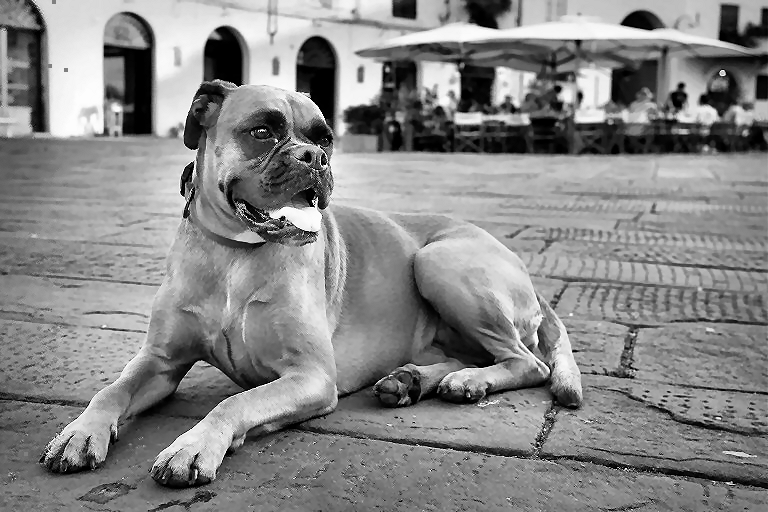
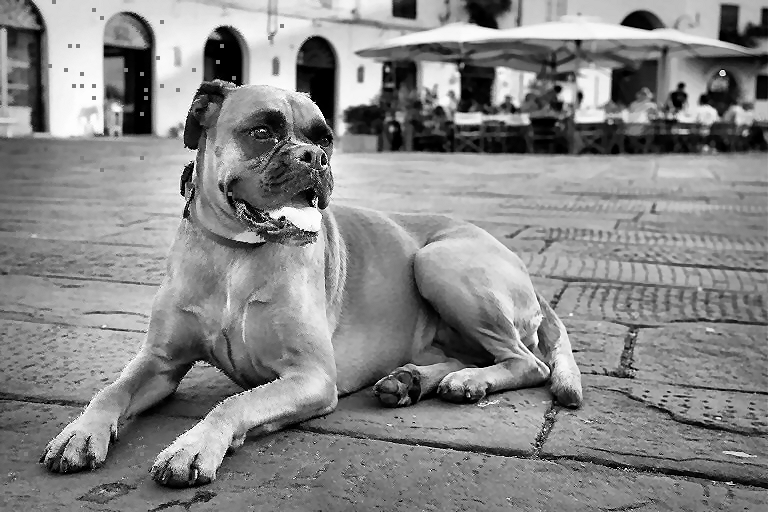
Improved accuracy, tested binary decoding

diff --git a/svd_steg/steganographer.py b/svd_steg/steganographer.py
@@ -253,7 +253,7 @@ class Steganographer:
         #A = []
 
         # Set block size
-        block_size = 8
+        block_size = 4
         cols_protected = 1 # currently only works with 1, would be great to get 2 working
 
         num_rows = ((self.embedded_image).shape)[0]
@@ -261,7 +261,8 @@ class Steganographer:
 
         # bits per block
         # hardcoded for now for an 4x4 with 1 column protected matrix, math wasnt working quite right
-        bpb = 21
+        # When block size = 4 this = 3, when block size = 8 this = 21
+        bpb = 3
 
         # num blocks possible
         num_blocks = (num_rows * num_cols)/(block_size * block_size)
@@ -351,9 +352,12 @@ class Steganographer:
                 S_Prime = S
 
                 # Might be blocksize - 3 not 2
-                avg_dist = (S[1,1] + S[block_size-1,block_size-1])/(block_size-2);
+                # Have changed block_size in denominator and k inside of loop to be 
+                # - 0. they used to be - 1 and since there is only a minimal increase in
+                # accuracy we may want to revert.
+                avg_dist = (S[1,1] + S[block_size-1,block_size-1])/(block_size);
                 for k in range (2, block_size):
-                    S_Prime[k,k]= S[1,1] - (k-2)*avg_dist
+                    S_Prime[k,k]= S[1,1] - (k)*avg_dist
 
                 """
                 print("U-Matrix before embedding: ")
@@ -436,6 +440,7 @@ class Steganographer:
                         # FIXME: temp fix, obviously some form of negative error
                         block[x, y] = math.fabs(block[x, y])
                         """
+
                         if block[x, y] > 128:
                             block[x, y] = 128
                         if block[x, y] < -127:
@@ -586,8 +591,8 @@ class Steganographer:
                 bit_message[x] = 0
 
         chars = []
-        for b in range(int(math.floor(len(bit_message) / 7))):
-            byte = bit_message[b*7:(b+1)*7]
+        for b in range(0, int(math.ceil(len(bit_message) / 8))): 
+            byte = bit_message[b*8:(b+1)*8]
             chars.append(chr(int(''.join([str(bit) for bit in byte]), 2)))
         return ''.join(chars)
 
@@ -620,6 +625,8 @@ class Steganographer:
         file_split = self.image_file.split('.')
         file_ending = file_split[1]
         if file_ending == 'jpg':
+            self.image = self.image[:,:,0]
+        elif self.image.ndim == 3:
             self.image = self.image[:,:,0]
         self.embedded_image = self.image
 
